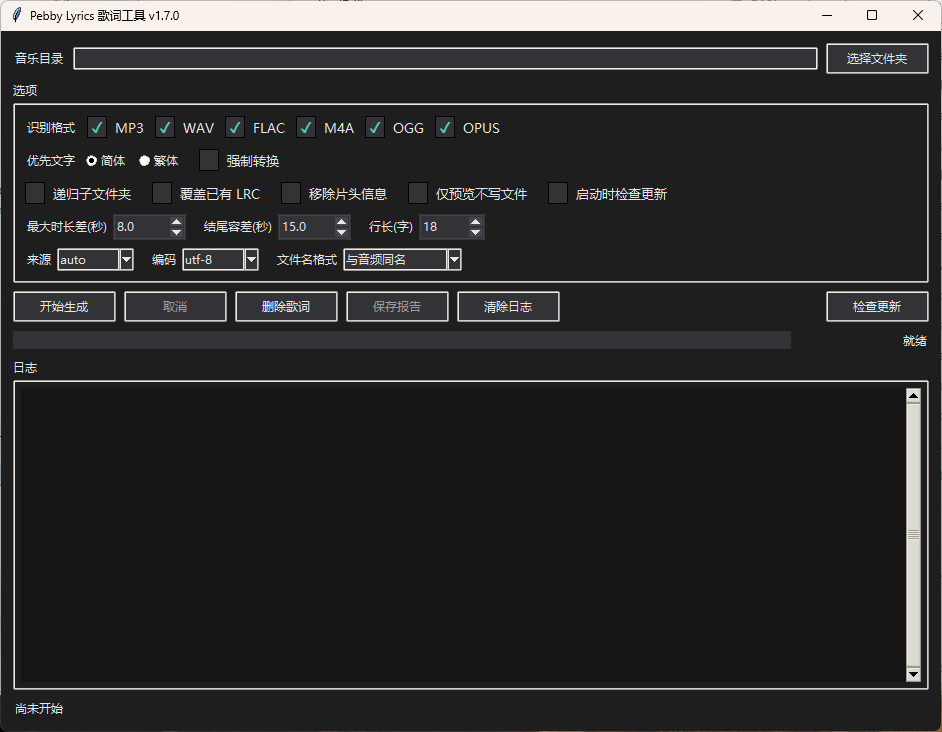
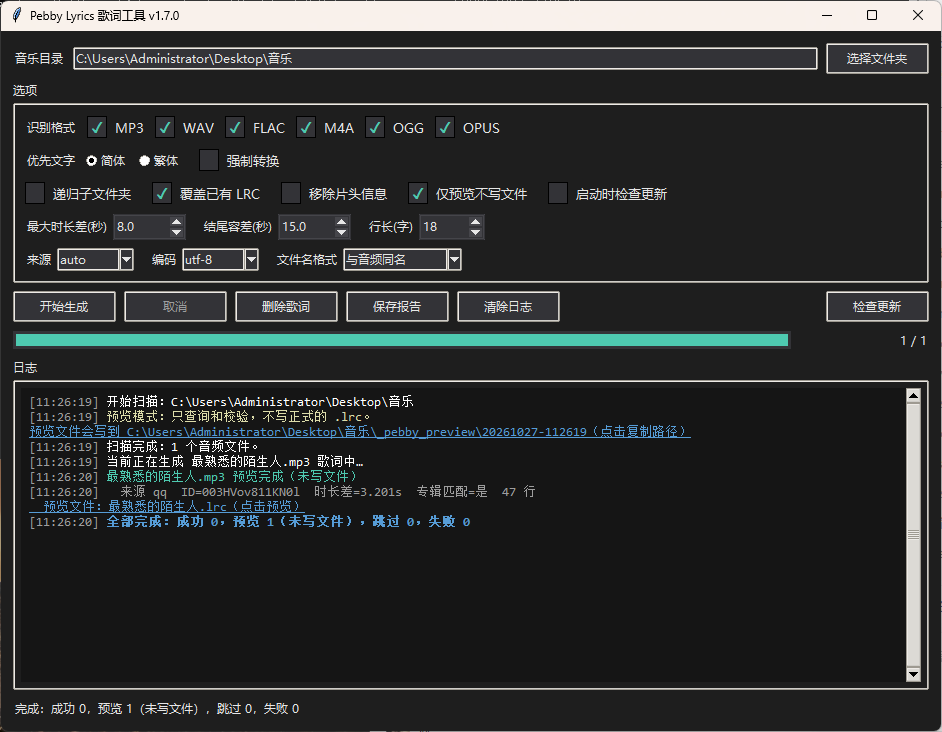
收尾：重写 README、更新功能截图、补 CHANGELOG
截图换成真实运行结果（以《最熟悉的陌生人》为例）：主界面展示预览模式的完整日志，第二张展示应用内预览查看器。README 按功能分区重写，补文件名格式表、预览说明、配置位置和发布流程；新增 CHANGELOG 记录 1.0.0 到 1.7.0 的变化。

diff --git a/README.md b/README.md
@@ -2,26 +2,25 @@
 
 给本地音乐批量补齐同名 `.lrc` 歌词的 Windows 小工具：**QQ 音乐优先、LRCLIB 兜底**，不登录、不下载音频、不改动音乐文件本身。
 
-图形界面和命令行共用同一套实现。适合给只认“同目录同名 `.lrc`”侧车歌词的播放器、车机、开发板（比如 [Pebby-Player](https://github.com/ZeroOneLab/Pebby-Player)）准备歌词。
-
 ![界面截图](docs/screenshot.png)
 
-选目录用的是系统原生“打开”对话框：能看到里面的文件，选中任意音频文件就等于选中它所在的目录。
+图形界面和命令行共用同一套实现。适合给只认“同目录同名 `.lrc`”侧车歌词的播放器、车机、开发板（比如 [Pebby-Player](https://github.com/ZeroOneLab/Pebby-Player)）准备歌词。
 
 ## 特性
 
 | 能力 | 说明 |
 |---|---|
-| 批量扫描 | 递归或只处理当前目录（GUI 默认不递归），也可只给单个音频文件；只读标签，不写音频 |
+| 批量处理 | 递归或只处理当前目录（默认只当前目录），也可只给单个文件；只读标签，不写音频 |
 | 双来源择优 | 同专辑 → 简繁优先级 → 来源 → 时长差 → 行长，逐级比较 |
-| 简繁处理 | 优先简体/繁体，找不到时自动用另一种；勾选“强制转换”后统一转成优先的那一种（OpenCC 双向） |
-| 清理片头 | 可选移除 QQ 歌词开头的“歌名 - 歌手”“词曲/制作”信息行，默认保留 |
-| 长句拆行 | 超过设定字数拆成多条时间轴，适配小屏显示 |
-| 文件名格式 | 默认与音频同名；也可用标签生成“歌名 - 歌手”等命名，见下文 |
+| 简繁处理 | 优先简体/繁体，首选找不到时自动用另一种；“强制转换”把结果统一成优先的那一种（OpenCC 双向） |
+| 片头清理 | 可选移除 QQ 歌词开头的“歌名 - 歌手”“词曲/制作”行，默认保留 |
+| 长句拆行 | 超过设定字数拆成多条时间轴，适配小屏 |
+| 文件名格式 | 默认与音频同名；也可用标签生成“歌名 - 歌手”等命名 |
 | 拒绝覆盖 | 已有 `.lrc`（连空文件）一律跳过；写入用排他创建，失败时清理半成品 |
+| 试跑预览 | 只查询不落盘，结果写到音乐目录的 `_pebby_preview`，可在应用内查看，关闭程序即删 |
 | 编码可选 | UTF-8（默认，无 BOM）或 GBK |
 | 自带环境 | 首次运行按提示建 `.lrc-env` 隔离环境，不污染全局 Python |
-| 更新提示 | 默认关闭；点“检查更新”才会查 GitHub Release，不上报任何信息 |
+| 更新提示 | 默认关闭；手动点“检查更新”才联网 |
 
 ## 快速开始
 
@@ -29,7 +28,7 @@
 
 1. 到 [Releases](../../releases/latest) 下载 `Pebby-Lyrics.exe`
 2. 放到**可写目录**（桌面、`D:\Tools` 都行），**不要放 `C:\Program Files`**：单文件版会在 exe 同目录解压临时文件
-3. 双击运行，选择音乐目录，点“开始生成”
+3. 双击运行，选音乐目录，点“开始生成”
 
 Windows Defender 或 360 偶尔会对 PyInstaller 单文件报“未知程序”，加信任即可；本项目不做任何自解压之外的系统改动。
 
@@ -44,7 +43,7 @@ cd pebby-lyrics
 # 图形界面：首次会说明用途并询问是否安装 Mutagen / OpenCC
 .\lrc_gui.cmd
 
-# 命令行：把音乐目录拖到 prepare_lrc.cmd 上也可以
+# 命令行：也可以把音乐目录直接拖到 prepare_lrc.cmd 上
 .\prepare_lrc.cmd "C:\Users\你\Music"
 ```
 
@@ -52,57 +51,33 @@ cd pebby-lyrics
 
 ## 图形界面
 
-- 选择音乐目录用系统原生对话框，能看见目录里的音频文件；选中文件即用其所在目录，也可直接在路径框里输入
-- 优先文字（简体/繁体）后面紧跟“强制转换”：勾上就把结果统一成优先的那种文字
-- 覆盖已有 LRC、移除片头信息、仅预览不写文件（后两项默认关闭）
-- 文件名格式下拉框：与音频同名（默认）/ 歌名 / 歌名 - 歌手 / 歌手 - 歌名 / 序号 歌名
-- 最大时长差、结尾容差、行长阈值
-- 来源（auto / qq / lrclib）与输出编码
-- 实时日志、结果统计、保存 JSON 报告、清除日志、批量删除歌词（优先进回收站）
+选项按使用顺序排成五行：
 
-窗口选项自动保存在 `settings.json`：**默认放在 exe 同目录**（整个文件夹拷到 U 盘也能带着配置走），exe 所在目录不可写时自动改用 `%APPDATA%\Pebby-Lyrics\settings.json`。源码运行时保存在脚本所在目录。
+1. **识别格式**：MP3 / WAV / FLAC / M4A / OGG / OPUS
+2. **优先文字**：简体 / 繁体，后面跟 **强制转换**
+3. **开关**：递归子文件夹、覆盖已有 LRC、移除片头信息、仅预览不写文件、启动时检查更新
+4. **阈值**：最大时长差(秒)、结尾容差(秒)、行长(字)
+5. **来源 / 编码 / 文件名格式**
 
-## 命令行
+其余：实时日志、结果统计、保存 JSON 报告、清除日志、批量删除歌词（优先进回收站）。
 
-```powershell
-# 处理整个目录，默认 QQ 优先、LRCLIB 兜底
-.\prepare_lrc.cmd "C:\Music"
+窗口选项自动保存到 `settings.json`：**默认就在 exe 同目录**（整个文件夹拷到 U 盘也能带着配置走），exe 所在目录不可写时回退到 `%APPDATA%\Pebby-Lyrics\settings.json`。源码运行时保存在脚本目录。
 
-# 只查询和校验，不写文件；报告名可自定义
-.\prepare_lrc.cmd "C:\Music" --dry-run --report build\lrc-preview.json
+## 试跑预览
 
-# 优先繁体来源 / 强制转简体 / 调整行长 / 覆盖已有
-.\prepare_lrc.cmd "C:\Music" --prefer traditional
-.\prepare_lrc.cmd "C:\Music" --convert simplified
-.\prepare_lrc.cmd "C:\Music" --convert traditional
-.\prepare_lrc.cmd "C:\Music" --max-line-chars 12
-.\prepare_lrc.cmd "C:\Music" --overwrite
+勾选“仅预览不写文件”后不会生成正式 `.lrc`，而是把结果写进音乐目录下的 `_pebby_preview\<时间戳>\`：
 
-# 只查某一个来源、输出 GBK
-.\prepare_lrc.cmd "C:\Music" --source qq --encoding gbk
-```
+- 日志里每条结果后面有可点击的“预览文件：xxx.lrc（点击预览）”，点开是应用内查看器
+- 开始运行时会打印一行“预览文件会写到 …（点击复制路径）”，点一下把路径复制到剪贴板
+- **关闭程序时自动删除本次预览目录**（异常退出留下的可以手动删）
 
-| 参数 | 默认 | 说明 |
-|---|---|---|
-| `root` | `桌面\音乐` | 音乐目录或单个音频文件 |
-| `--source` | `auto` | `auto` / `qq` / `lrclib` |
-| `--prefer` | `simplified` | 首选文字形态，找不到时自动用另一种 |
-| `--convert` | 关 | 强制把最终歌词转成 `simplified` 或 `traditional`；`--simplify` 是它的旧别名 |
-| `--drop-credits` | 关 | 移除 QQ 片头的歌名/词曲行；默认保留 |
-| `--name-format` | `same` | `same` / `title` / `title-artist` / `artist-title` / `track-title` |
-| `--max-line-chars` | `18` | 长句拆分阈值，`0` 表示不拆 |
-| `--overwrite` | 关 | 覆盖同名 `.lrc`；默认跳过且不联网 |
-| `--encoding` | `utf-8` | `utf-8` / `gbk` |
-| `--dry-run` | 关 | 只查询校验，不写文件 |
-| `--report` | 无 | 输出 UTF-8 JSON 报告（不含歌词正文） |
-| `--timeout` | `15` | 单次网络请求超时秒数 |
-| `--version` | | 打印版本 |
+![预览查看器](docs/preview-viewer.png)
 
-`python lrc_gui.py --version` / `--check-update` 可在源码模式下查版本、查更新；打包后的 EXE 没有控制台，这两个参数会以消息框显示。
+命令行等价写法：`--dry-run --preview-dir <目录>`。
 
-### 文件名格式
+## 文件名格式
 
-默认 `same`：`晴天.mp3` → `晴天.lrc`。这是唯一能被“按音频文件名找同目录歌词”的播放器（包括 Pebby-Player）识别的格式。
+默认 `same`：`晴天.mp3` → `晴天.lrc`。这是唯一能被“按音频文件名找同目录歌词”的播放器识别的格式。
 
 其余选项用音频标签重命名，适合按文件名显示、或会扫描目录里全部 `.lrc` 的播放器：
 
@@ -114,26 +89,52 @@ cd pebby-lyrics
 | `artist-title` | `周杰伦 - 晴天.lrc` | 同上，顺序相反 |
 | `track-title` | `03 晴天.lrc` | 需要 `tracknumber` 标签，缺失时退化为歌名 |
 
-文件名里的 `<>:"/\|?*` 会替换成 `_`，首尾空格和点会被去掉；目标已存在时按“已有文件”跳过，不覆盖。选 `same` 以外的格式时 GUI 会先警告一次——改名的代价是原本按文件名找歌词的播放器可能认不出来。
+文件名里的 `<>:"/\|?*` 会替换成 `_`，首尾空格和点会被去掉；目标已存在时按“已有文件”跳过，不覆盖。
+
+## 命令行
+
+```powershell
+# 处理整个目录，默认 QQ 优先、LRCLIB 兜底
+.\prepare_lrc.cmd "C:\Music"
+
+# 先试跑，把预览写到指定目录
+.\prepare_lrc.cmd "C:\Music" --dry-run --preview-dir D:\preview
+
+# 优先繁体 / 强制统一成简体 / 调整行长 / 覆盖已有
+.\prepare_lrc.cmd "C:\Music" --prefer traditional
+.\prepare_lrc.cmd "C:\Music" --convert simplified
+.\prepare_lrc.cmd "C:\Music" --max-line-chars 12
+.\prepare_lrc.cmd "C:\Music" --overwrite
+```
+
+| 参数 | 默认 | 说明 |
+|---|---|---|
+| `root` | `桌面\音乐` | 音乐目录或单个音频文件 |
+| `--source` | `auto` | `auto` / `qq` / `lrclib` |
+| `--prefer` | `simplified` | 首选文字形态，找不到时自动用另一种 |
+| `--convert` | 关 | 强制转成 `simplified` 或 `traditional`；`--simplify` 是它的旧别名 |
+| `--drop-credits` | 关 | 移除 QQ 片头的歌名/词曲行；默认保留 |
+| `--name-format` | `same` | `same` / `title` / `title-artist` / `artist-title` / `track-title` |
+| `--max-line-chars` | `18` | 长句拆分阈值，`0` 表示不拆 |
+| `--overwrite` | 关 | 覆盖同名 `.lrc`；默认跳过且不联网 |
+| `--encoding` | `utf-8` | `utf-8` / `gbk` |
+| `--dry-run` | 关 | 只查询校验，不写文件 |
+| `--preview-dir` | 无 | 配合 `--dry-run` 把预览写到该目录 |
+| `--report` | 无 | 输出 UTF-8 JSON 报告（不含歌词正文） |
+| `--timeout` | `15` | 单次网络请求超时秒数 |
+| `--version` | | 打印版本 |
+
+`python lrc_gui.py --version` / `--check-update` 可在源码模式查版本、查更新；打包后的 EXE 没有控制台，这两个参数以消息框显示。
 
 ## 更新检查与隐私
 
-- **默认关闭**：只有手动点“检查更新”（或勾选“启动时检查更新”）才会请求 `api.github.com/repos/ZeroOneLab/pebby-lyrics/releases/latest`
-- 勾选后每个自然日最多一次；“跳过此版本”会记住被跳过的版本，不再自动打扰
-- 匿名 API 有 60 次/小时/IP 的配额，共享出口很容易被限流；此时改读 `releases/latest` 的跳转地址取版本号，不依赖 API 配额
+- **默认关闭**：只有手动点“检查更新”（或自己勾选“启动时检查更新”）才会请求 `api.github.com/repos/ZeroOneLab/pebby-lyrics/releases/latest`
+- 勾选后每个自然日最多一次；“跳过此版本”会记住被跳过的版本
+- 匿名 API 有 60 次/小时/IP 的配额，被限流时改读 `releases/latest` 的跳转地址取版本号
 - 请求只带 `User-Agent: Pebby-Lyrics/<版本>`，没有设备 ID、没有统计、没有遥测
 - **不会**自动下载或替换程序，只打开浏览器到发布页
-- 命令行同理，只有显式 `--check-update` 才请求
 
 ## 常见问题
-
-**“仅预览不写文件”是做什么的，去哪看**
-试跑：照常联网查询、校验、拆行，但不会生成正式的 `.lrc`。预览文件写在**音乐目录下的 `_pebby_preview\<时间戳>\`**；开始运行时日志里会有一行“预览文件会写到 …（点击复制路径）”，每条预览结果后面是可点击的“预览文件：xxx.lrc（点击预览）”，点开是**应用内查看器**（能看到全文、复制、需要时再点“用记事本打开”）。**关闭程序时会自动删掉本次的预览目录**。命令行等价写法：`--dry-run --preview-dir <目录>`。
-
-![预览查看器](docs/preview-viewer.png)
-
-**“强制转换”是干什么的**
-和“优先文字”配合用。不勾时：优先简体就尽量找简体，找不到才用繁体，但**不改变文字**。勾上时：先按优先级选，再把结果**统一转成你选的那一种**——选简体就把繁体转简体，选繁体就把简体转繁体（OpenCC 双向，时间戳不变）。命令行对应 `--convert simplified` / `--convert traditional`。
 
 **提示“没有符合优先级的同步歌词”**
 该曲目在 QQ 音乐和 LRCLIB 都没有合格的时间轴歌词，或同名歌曲时长差超过 8 秒。可换 `--source` 单独排查，或手工补歌词。
@@ -141,24 +142,14 @@ cd pebby-lyrics
 **报告里 `ambiguous` 是什么意思**
 同来源、同文字形态、同时长差评分下存在两份不同歌词，工具不会替你选，需要人工确认。
 
+**“强制转换”到底做什么**
+和“优先文字”配合：不勾时只按优先级挑来源、不改文字；勾上时先挑来源，再把结果统一转成优先的那一种（选简体就繁转简，选繁体就简转繁，时间戳不动）。
+
 **QQ 接口会不会失效**
-会。它用的是网页内部接口，没有稳定性承诺；上游一变动就会失败（此时自动退回 LRCLIB）。这属于预期行为，不是安装问题。
+会。它用的是网页内部接口，没有稳定性保证；上游一变动就会失败（此时自动退回 LRCLIB）。这属于预期行为，不是安装问题。
 
 **EXE 双击没反应 / 报找不到临时目录**
 确认 exe 放在可写目录，且没有被安全软件拦截。
-
-## 目录结构
-
-```
-prepare_lrc.py            命令行与抓取/匹配/写入核心
-lrc_gui.py                Tkinter 图形界面
-version.py                版本号唯一来源
-update_check.py           GitHub Release 更新检查（只读公开接口）
-prepare_lrc.cmd / .ps1    命令行入口与环境安装
-lrc_gui.cmd               图形界面入口
-build_lrc_exe.cmd         用 PyInstaller 打单文件 EXE
-requirements-lyrics.txt   Mutagen / OpenCC 版本约束
-```
 
 ## 开发
 
@@ -171,14 +162,13 @@ requirements-lyrics.txt   Mutagen / OpenCC 版本约束
 python -m unittest discover -s tests -v
 ```
 
-打包用 PyInstaller 6.16.0，`--collect-data opencc` 负责把 OpenCC 的配置和词典塞进单文件；漏掉这一步，简繁转换会在别的机器上运行时崩溃。
-
 发布流程：
 
 1. 改 `version.py` 里的 `__version__`
-2. 提交并打 tag：`git tag v1.0.1 && git push origin v1.0.1`
-3. GitHub Actions 自动构建并把 `Pebby-Lyrics.exe` 挂到 Release
-4. 已安装的旧版本下次启动就会看到更新提示
+2. 提交并打 tag：`git tag v1.7.1 && git push origin v1.7.1`
+3. GitHub Actions 自动构建并把 `Pebby-Lyrics.exe` 挂到 Release（tag 必须与 `version.py` 一致）
+
+版本历史见 [CHANGELOG.md](CHANGELOG.md)。
 
 ## 许可与免责
 

diff --git a/CHANGELOG.md b/CHANGELOG.md
@@ -1,0 +1,57 @@
+# 变更记录
+
+日期以开题为准，版本号对应 GitHub Release 的 tag。
+
+## v1.7.0
+
+- 选项区重排为五行：识别格式 / 优先文字+强制转换 / 五个开关 / 三个阈值 / 来源·编码·文件名格式
+- 跑完不再重复打印“预览文件目录”；单条预览链接文案改为“（点击预览）”
+
+## v1.6.0
+
+- 删除“打开目录”按钮与应用内目录浏览；日志里的目录链接改为复制路径
+- “强制转简体”改为“强制转换”，跟随“优先文字”双向转换（OpenCC t2s / s2t）
+- 去掉文件名格式旁的识别提示
+- 配置改为优先保存在 exe 同目录，不可写时回退 `%APPDATA%\Pebby-Lyrics`
+
+## v1.5.0
+
+- 预览结果改用应用内文本查看器（外部程序启动可能被系统拦截）
+- 目录打不开时退回应用内浏览窗口
+
+## v1.4.0
+
+- 预览目录改到音乐目录下的 `_pebby_preview\<时间戳>\`，关闭程序自动删除
+- 新增“清除日志”按钮
+- “打开目录”不再创建子进程
+
+## v1.3.0
+
+- 选目录改用系统原生对话框，选中音频文件即用其所在目录
+- “启动时检查更新”默认关闭
+- 预览结果写到文件，可点击打开
+
+## v1.2.0
+
+- 选目录时同时列出音频文件与数量
+- 修复“打开目录”的 WinError 5
+- 预览统计单独显示
+
+## v1.1.1
+
+- 修复深色主题下 Spinbox 上下箭头不可见
+
+## v1.1.0
+
+- “递归子文件夹”“移除片头信息”默认关闭（CLI 对应 `--drop-credits`）
+- 新增 `--name-format`：与音频同名 / 歌名 / 歌名 - 歌手 / 歌手 - 歌名 / 序号 歌名
+
+## v1.0.1
+
+- 更新检查在匿名 API 被限流时改读发布页跳转，不再静默失效
+
+## v1.0.0
+
+- 从 Pebby-Player 拆分为独立仓库：批量生成同名 LRC，QQ 音乐优先、LRCLIB 兜底
+- 图形界面 + 命令行共用实现，自带隔离环境安装
+- 单文件 EXE 由 GitHub Actions 在打 tag 时构建并发布
